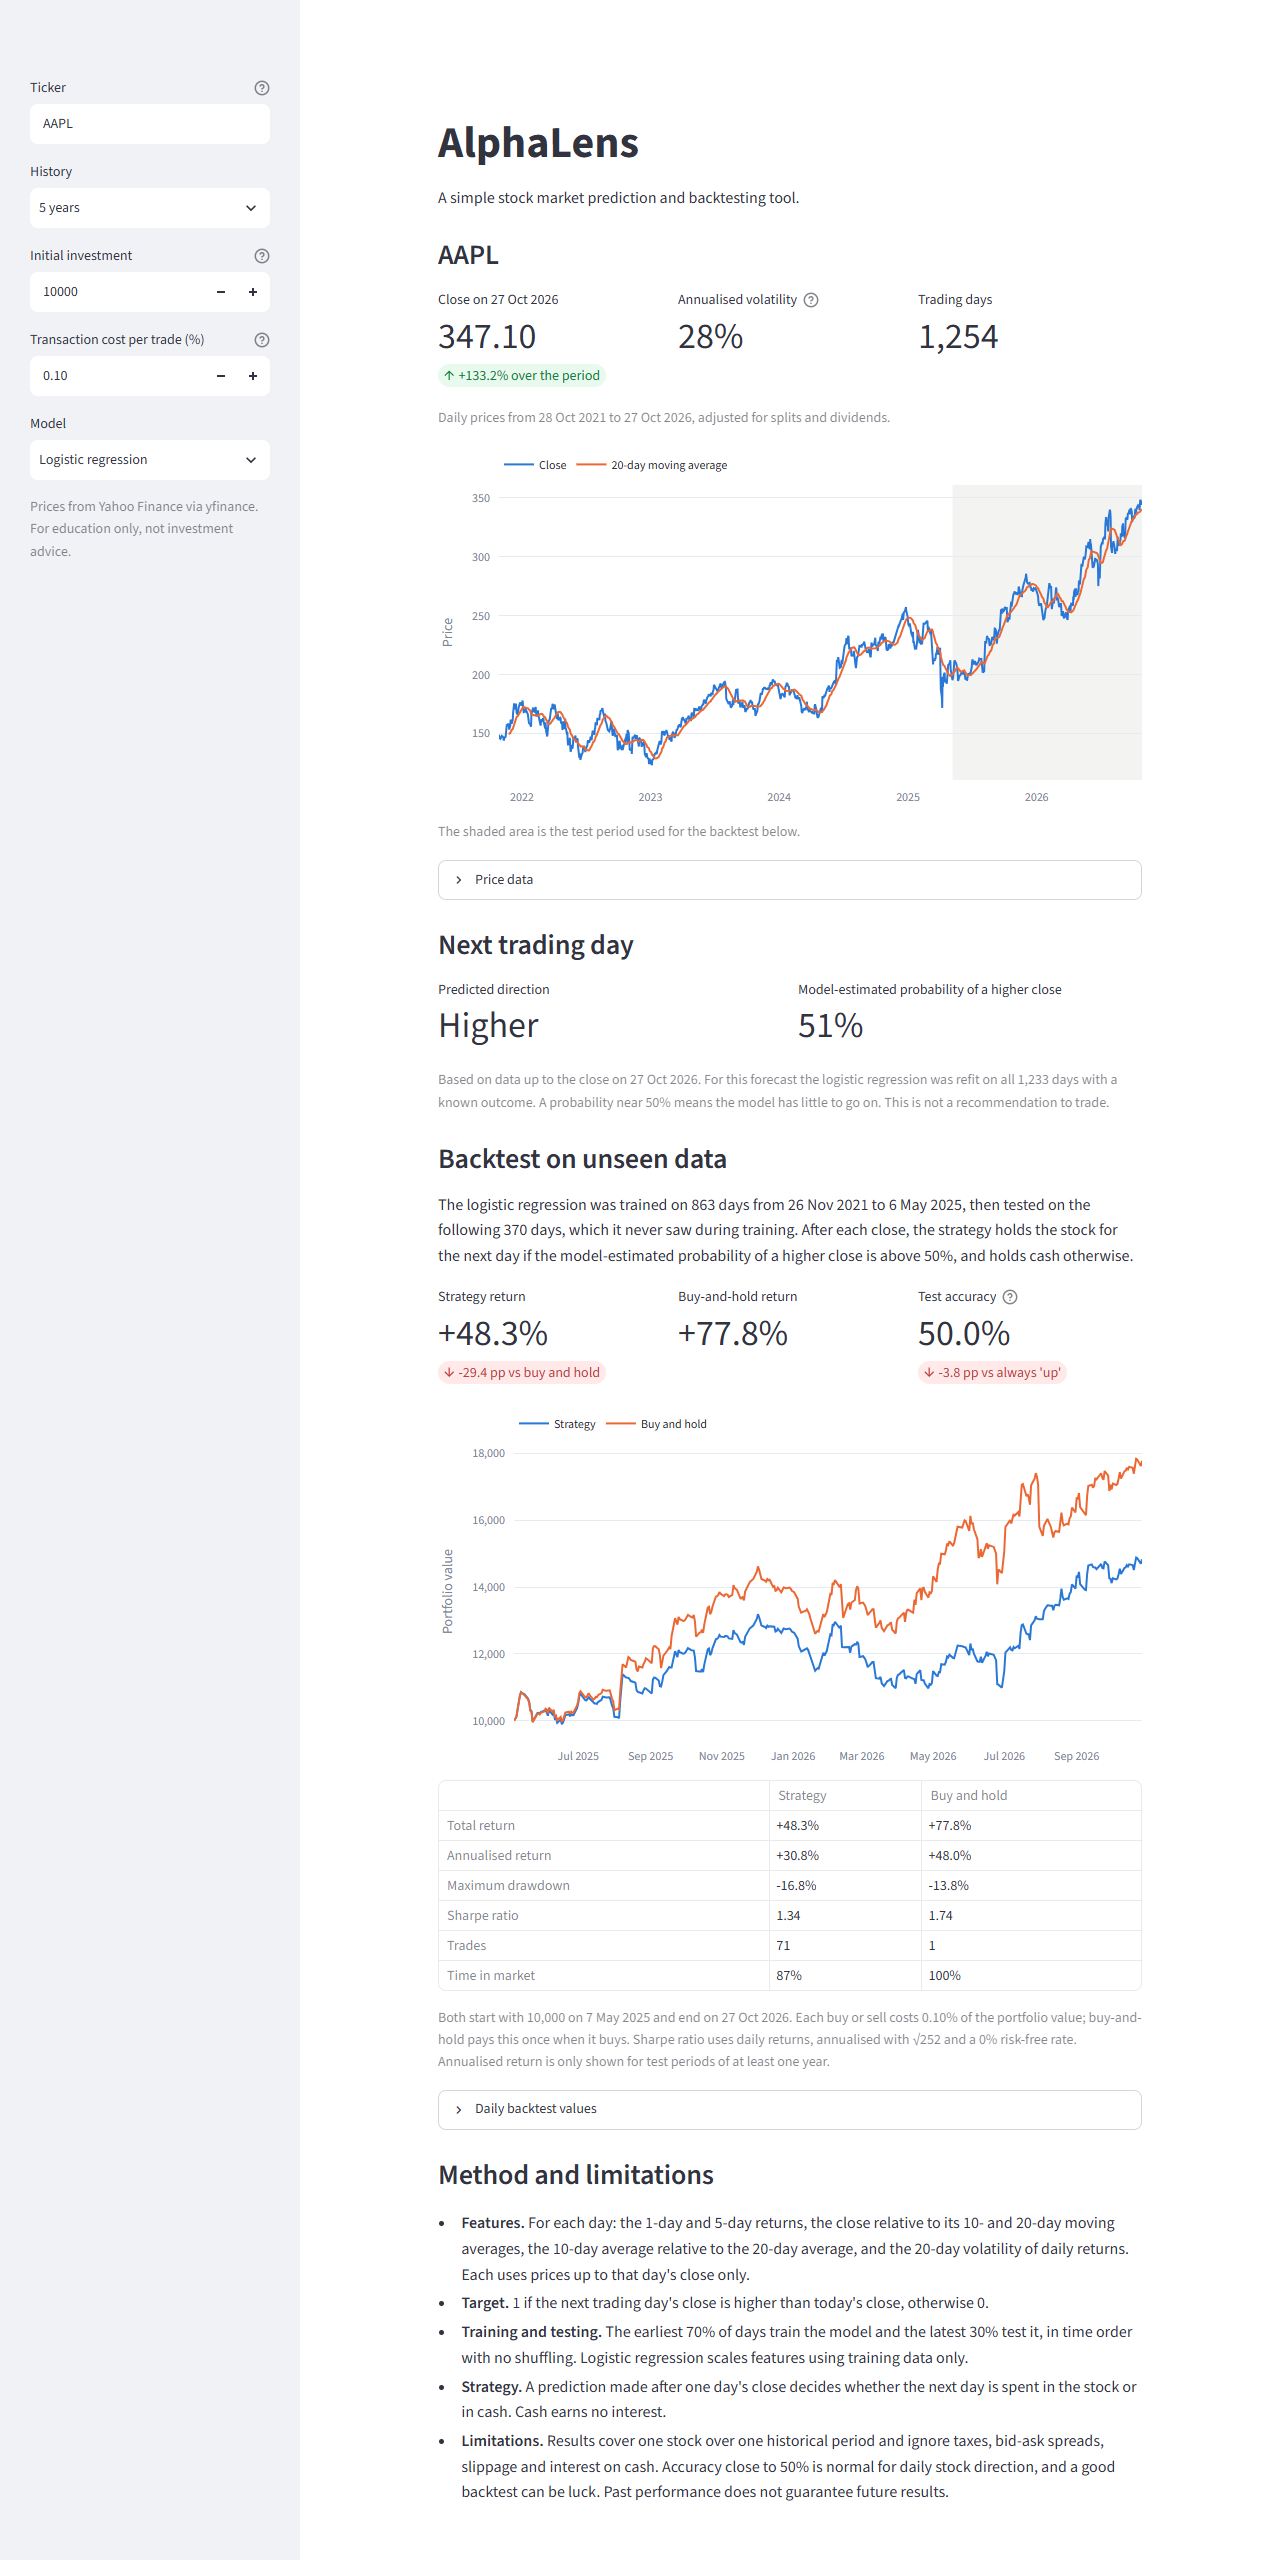
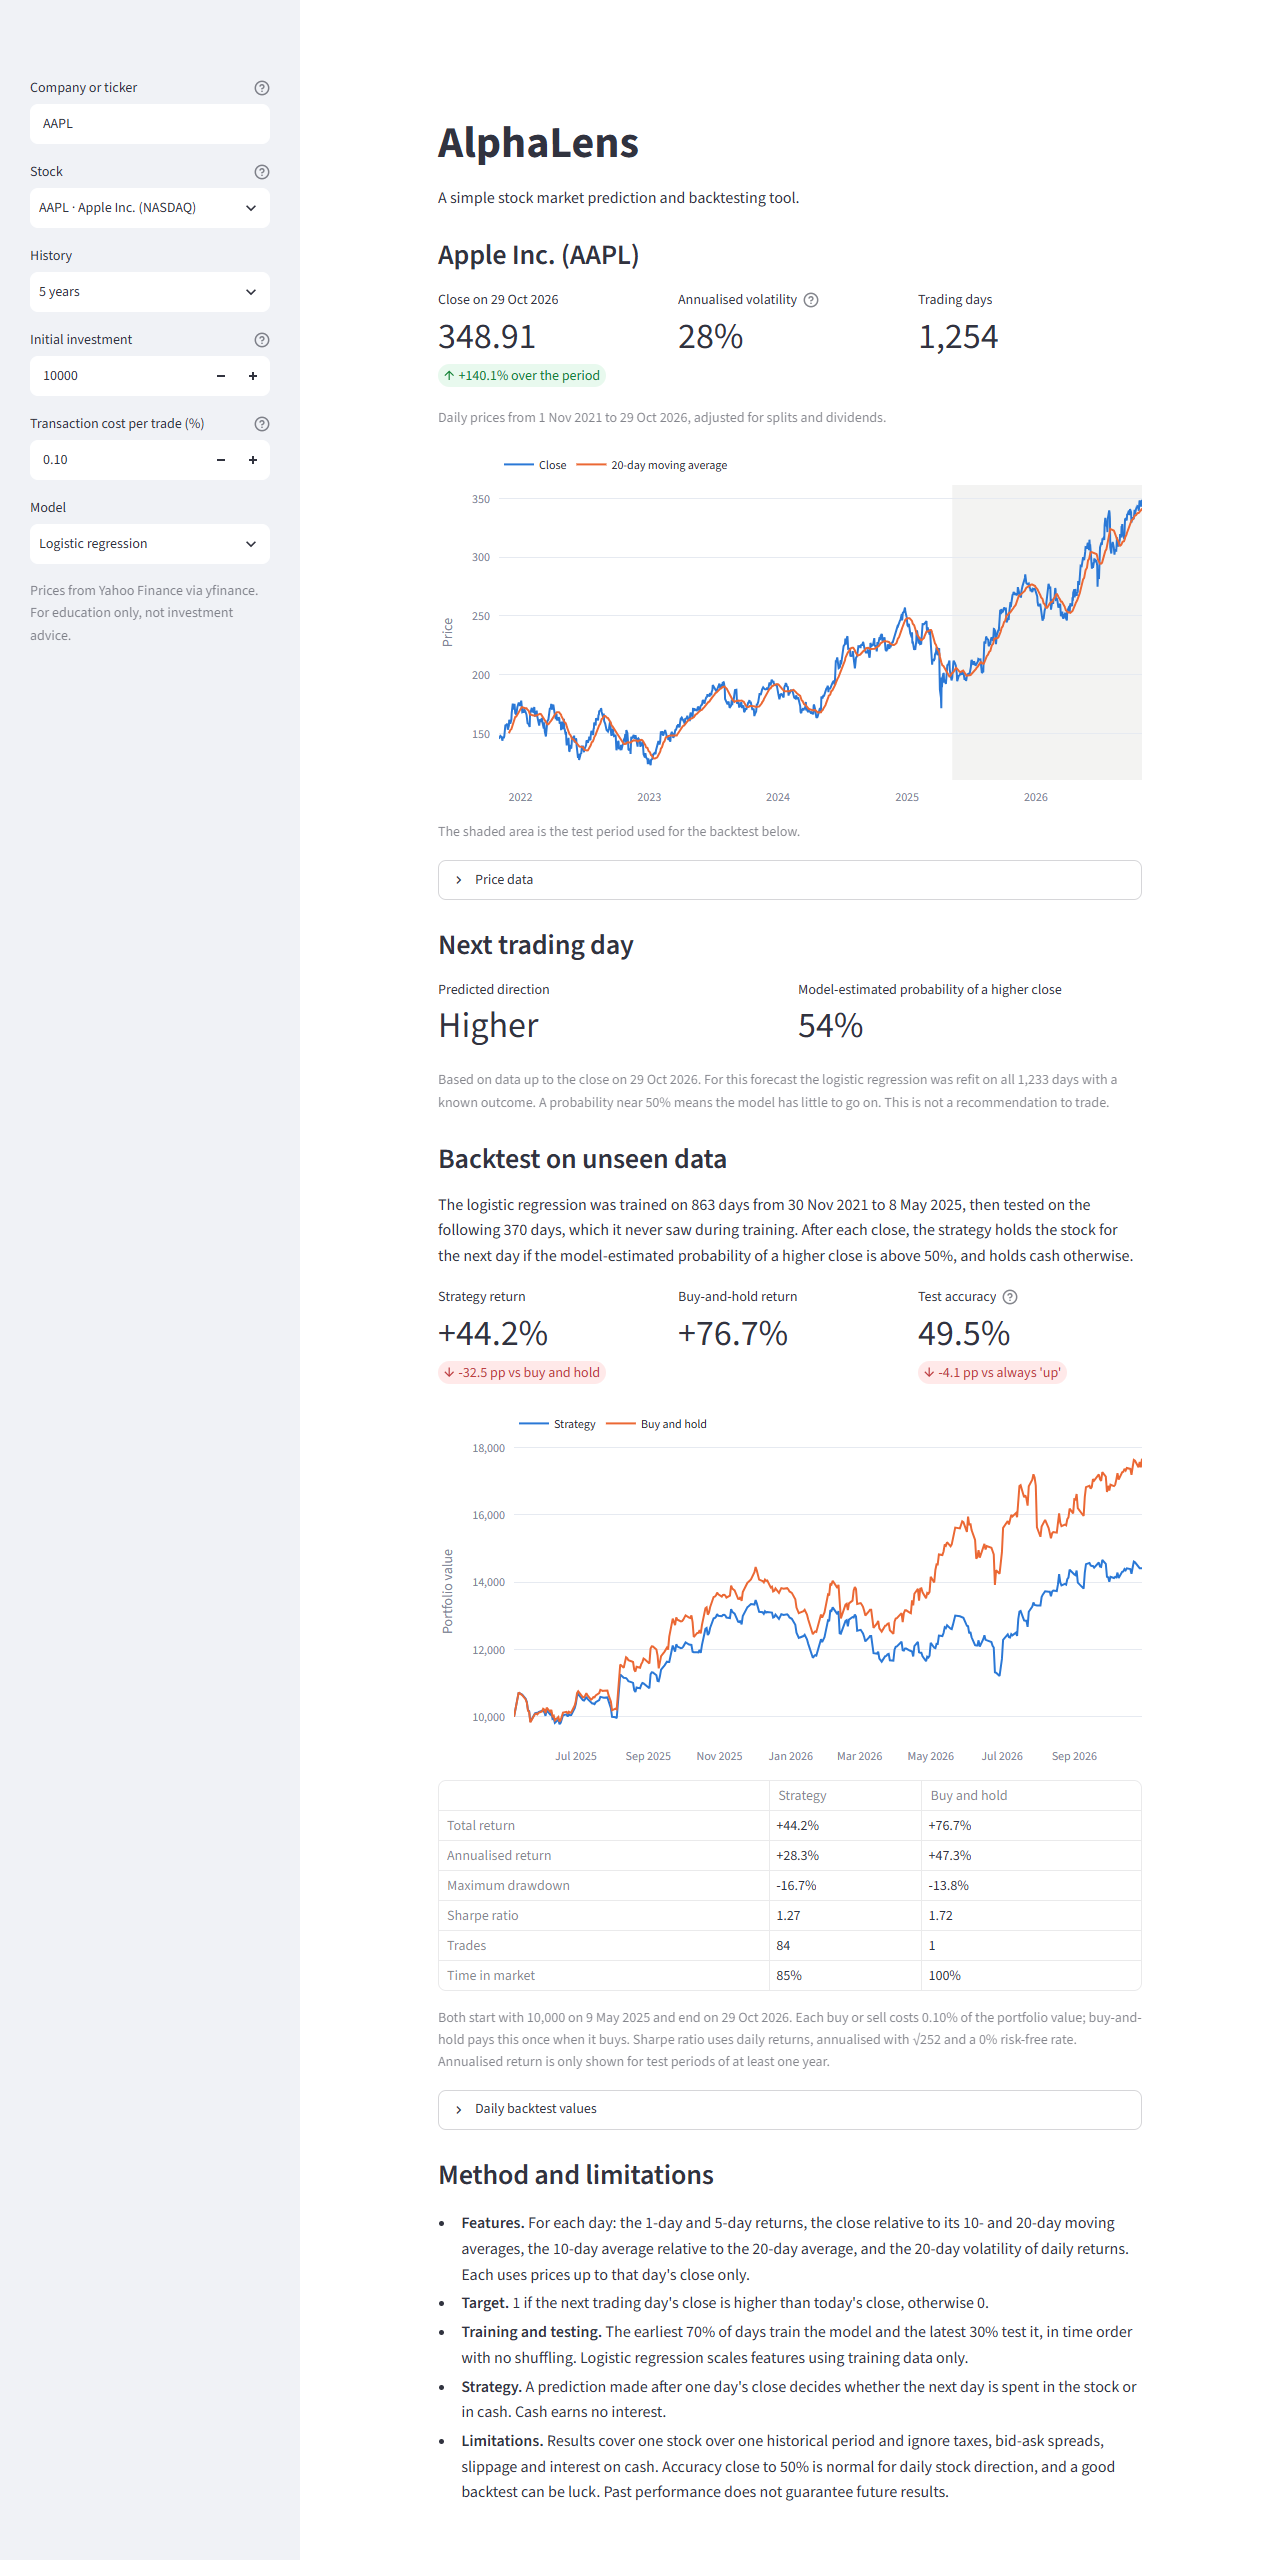
feat: search by company name or ticker and show company name
The sidebar search box accepts a company name or a ticker symbol and lists matching stocks, ETFs and indices from Yahoo Finance, with an exact ticker match first. The page heading shows the company name next to the ticker. README and screenshot updated.

diff --git a/app.py b/app.py
@@ -6,19 +6,26 @@ live in data.py, features.py, model.py and backtest.py.
 
 from __future__ import annotations
 
+from typing import NoReturn
+
 import numpy as np
 import pandas as pd
 import plotly.graph_objects as go
 import streamlit as st
 
 from backtest import TRADING_DAYS_PER_YEAR, performance_metrics, run_backtest
-from data import PERIODS, DataError, download_prices, normalise_ticker
+from data import PERIODS, DataError, Listing, download_prices, search_listings
 from features import add_indicators, build_dataset
 from model import MODEL_NAMES, Evaluation, Forecast, InsufficientDataError, evaluate_model, forecast_next_day
 
 PRIMARY_COLOUR = "#2a78d6"  # close price, strategy
 SECONDARY_COLOUR = "#eb6834"  # moving average, buy-and-hold
 SHADE_COLOUR = "#898781"
+
+
+@st.cache_data(ttl=86400, show_spinner=False)
+def load_listings(query: str) -> list[Listing]:
+    return search_listings(query)
 
 
 @st.cache_data(ttl=3600, show_spinner=False)
@@ -29,6 +36,16 @@ def load_prices(symbol: str, period: str) -> pd.DataFrame:
 @st.cache_data(show_spinner=False)
 def load_model_results(dataset: pd.DataFrame, model_name: str) -> tuple[Evaluation, Forecast]:
     return evaluate_model(dataset, model_name), forecast_next_day(dataset, model_name)
+
+
+def stop_with_error(message: str) -> NoReturn:
+    st.error(message)
+    st.write(
+        "Check the company name or ticker in the sidebar and try again. If it is correct, Yahoo Finance may be "
+        "temporarily unavailable or limiting requests, so wait a minute before retrying."
+    )
+    st.button("Try again")
+    st.stop()
 
 
 def date_text(timestamp: pd.Timestamp) -> str:
@@ -81,7 +98,24 @@ def format_metrics(metrics: dict) -> dict[str, str]:
 st.set_page_config(page_title="AlphaLens", layout="centered")
 
 with st.sidebar:
-    ticker = st.text_input("Ticker", value="AAPL", help="A Yahoo Finance symbol, for example AAPL, MSFT or NVDA.")
+    query = st.text_input(
+        "Company or ticker",
+        value="AAPL",
+        help="Search Yahoo Finance by company name (for example Apple) or ticker symbol (for example AAPL), "
+        "then press Enter.",
+    )
+    search_error = None
+    try:
+        listings = load_listings(query.strip())
+    except DataError as exc:
+        listings, search_error = [], str(exc)
+    listing = st.selectbox(
+        "Stock",
+        listings,
+        format_func=Listing.label,
+        disabled=not listings,
+        help="Matching stocks, ETFs and indices. An exact ticker match is listed first.",
+    )
     period_label = st.selectbox("History", list(PERIODS), index=2)
     initial_capital = st.number_input(
         "Initial investment",
@@ -106,18 +140,16 @@ with st.sidebar:
 st.title("AlphaLens")
 st.write("A simple stock market prediction and backtesting tool.")
 
+if listing is None:
+    stop_with_error(search_error)
+
+symbol = listing.symbol
+display_name = f"{listing.name} ({symbol})"
 try:
-    symbol = normalise_ticker(ticker)
-    with st.spinner(f"Downloading daily prices for {symbol}..."):
+    with st.spinner(f"Downloading daily prices for {display_name}..."):
         prices = load_prices(symbol, PERIODS[period_label])
 except DataError as exc:
-    st.error(str(exc))
-    st.write(
-        "Check the ticker in the sidebar and try again. If the symbol is correct, Yahoo Finance may be "
-        "temporarily unavailable or limiting requests, so wait a minute before retrying."
-    )
-    st.button("Try again")
-    st.stop()
+    stop_with_error(str(exc))
 
 dataset = build_dataset(prices)
 evaluation, forecast, model_error = None, None, None
@@ -132,7 +164,7 @@ indicators = add_indicators(prices)
 close = prices["Close"]
 last_date = prices.index[-1]
 
-st.subheader(symbol)
+st.subheader(display_name)
 col1, col2, col3 = st.columns(3)
 col1.metric(
     f"Close on {date_text(last_date)}",

diff --git a/data.py b/data.py
@@ -3,6 +3,7 @@
 from __future__ import annotations
 
 import re
+from dataclasses import dataclass
 
 import pandas as pd
 import yfinance as yf
@@ -10,6 +11,8 @@ import yfinance as yf
 # Sidebar label -> yfinance period string
 PERIODS = {"1 year": "1y", "2 years": "2y", "5 years": "5y", "10 years": "10y"}
 PRICE_COLUMNS = ["Open", "High", "Low", "Close", "Volume"]
+# Yahoo search result types that have ordinary daily prices (no futures, options or currencies)
+SEARCH_TYPES = {"EQUITY", "ETF", "INDEX", "MUTUALFUND"}
 
 # Letters, digits and the separators Yahoo uses, e.g. AAPL, BRK-B, RDSA.AS, ^GSPC
 _TICKER_PATTERN = re.compile(r"^\^?[A-Z0-9][A-Z0-9.\-=]{0,14}$")
@@ -29,6 +32,53 @@ def normalise_ticker(ticker: str) -> str:
     if not _TICKER_PATTERN.match(symbol):
         raise DataError(f"'{ticker}' is not a valid ticker symbol. Enter a symbol such as AAPL, MSFT or NVDA.")
     return symbol
+
+
+@dataclass(frozen=True)
+class Listing:
+    """A security found by search: its Yahoo symbol, company name and exchange."""
+
+    symbol: str
+    name: str
+    exchange: str
+
+    def label(self) -> str:
+        return f"{self.symbol} · {self.name} ({self.exchange})"
+
+
+def search_listings(query: str, max_results: int = 10) -> list[Listing]:
+    """Find listings whose company name or ticker matches the query, exact symbol match first.
+
+    Raises DataError if the query is empty, the search fails or nothing matches.
+    """
+    query = query.strip()
+    if not query:
+        raise DataError("Enter a company name or ticker symbol, for example Apple or AAPL.")
+    try:
+        quotes = yf.Search(
+            query, max_results=max_results, news_count=0, lists_count=0, include_cb=False, recommended=0
+        ).quotes
+    except Exception as exc:
+        detail = str(exc).strip().rstrip(":") or type(exc).__name__
+        raise DataError(f"Could not search Yahoo Finance for '{query}' ({detail}).") from exc
+
+    listings = [
+        Listing(
+            symbol=quote["symbol"],
+            name=quote.get("longname") or quote.get("shortname") or quote["symbol"],
+            exchange=quote.get("exchDisp") or quote.get("exchange") or "unknown exchange",
+        )
+        for quote in quotes
+        if quote.get("quoteType") in SEARCH_TYPES and _TICKER_PATTERN.match(quote["symbol"])
+    ]
+    if not listings:
+        raise DataError(
+            f"No stocks, ETFs or indices on Yahoo Finance match '{query}'. "
+            "Try the company's full name or its ticker symbol."
+        )
+    # Stable sort: a listing whose symbol is exactly what was typed comes first, the rest keep Yahoo's order.
+    listings.sort(key=lambda listing: listing.symbol != query.upper())
+    return listings
 
 
 def download_prices(ticker: str, period: str = "5y") -> pd.DataFrame:

diff --git a/tests/test_data.py b/tests/test_data.py
@@ -3,7 +3,15 @@ import pandas as pd
 import pytest
 
 import data
-from data import DataError, clean_prices, download_prices, drop_unfinished_session, normalise_ticker
+from data import (
+    DataError,
+    Listing,
+    clean_prices,
+    download_prices,
+    drop_unfinished_session,
+    normalise_ticker,
+    search_listings,
+)
 
 
 @pytest.mark.parametrize(
@@ -105,3 +113,57 @@ def test_download_prices_reports_empty_results(monkeypatch):
     monkeypatch.setattr(data.yf, "Ticker", _EmptyTicker)
     with pytest.raises(DataError, match="no prices"):
         download_prices("AAPL")
+
+
+def _fake_search(quotes):
+    class _Search:
+        def __init__(self, query, **kwargs):
+            self.quotes = quotes
+
+    return _Search
+
+
+_SEARCH_QUOTES = [
+    {"symbol": "AAPU", "quoteType": "ETF", "longname": "Direxion Daily AAPL Bull 2X Shares", "exchDisp": "NASDAQ"},
+    {"symbol": "SAAPL=F", "quoteType": "FUTURE", "shortname": "Apple Inc Stock Futures", "exchDisp": "CME"},
+    {"symbol": "AAPL", "quoteType": "EQUITY", "longname": "Apple Inc.", "shortname": "Apple", "exchDisp": "NASDAQ"},
+    {"symbol": "AAPL.TO", "quoteType": "EQUITY", "shortname": "APPLE CDR", "exchange": "TOR"},
+]
+
+
+def test_search_listings_keeps_priced_securities_and_puts_exact_symbol_first(monkeypatch):
+    monkeypatch.setattr(data.yf, "Search", _fake_search(_SEARCH_QUOTES))
+
+    listings = search_listings(" aapl ")
+
+    assert listings == [
+        Listing("AAPL", "Apple Inc.", "NASDAQ"),
+        Listing("AAPU", "Direxion Daily AAPL Bull 2X Shares", "NASDAQ"),
+        Listing("AAPL.TO", "APPLE CDR", "TOR"),
+    ]
+    assert listings[0].label() == "AAPL · Apple Inc. (NASDAQ)"
+
+
+def test_search_listings_by_company_name_keeps_yahoo_order(monkeypatch):
+    monkeypatch.setattr(data.yf, "Search", _fake_search(_SEARCH_QUOTES))
+    assert [listing.symbol for listing in search_listings("Apple")] == ["AAPU", "AAPL", "AAPL.TO"]
+
+
+def test_search_listings_rejects_empty_query():
+    with pytest.raises(DataError, match="Enter a company name"):
+        search_listings("   ")
+
+
+def test_search_listings_reports_no_matches(monkeypatch):
+    monkeypatch.setattr(data.yf, "Search", _fake_search([{"symbol": "X=F", "quoteType": "FUTURE"}]))
+    with pytest.raises(DataError, match="No stocks"):
+        search_listings("zzzz")
+
+
+def test_search_listings_reports_provider_failures(monkeypatch):
+    def _failing_search(query, **kwargs):
+        raise ConnectionError("network unreachable")
+
+    monkeypatch.setattr(data.yf, "Search", _failing_search)
+    with pytest.raises(DataError, match="network unreachable"):
+        search_listings("Apple")

diff --git a/README.md b/README.md
@@ -6,24 +6,26 @@ AlphaLens downloads daily prices for a stock and trains a small machine learning
 
 ![AlphaLens dashboard](docs/screenshot.png)
 
-*The running app for AAPL with five years of history and logistic regression, captured on 27 October 2026.*
+*The running app for AAPL with five years of history and logistic regression, captured on 29 October 2026.*
 
 ## The question
 
 **Can a simple machine learning model generate a trading strategy that outperforms buying and holding a stock after accounting for transaction costs?**
 
-AlphaLens lets you test this for any ticker on Yahoo Finance. In the run shown above, the answer was no. The strategy returned +48.3% against +77.8% for buy-and-hold over the same 370-day test period. The model's test accuracy (50.0%) was below that of always predicting "up".
+AlphaLens lets you test this for any ticker on Yahoo Finance. In the run shown above, the answer was no. The strategy returned +44.2% against +76.7% for buy-and-hold over the same 370-day test period. The model's test accuracy (49.5%) was below that of always predicting "up".
 
 ## Features
 
-- Daily prices for any Yahoo Finance ticker (default AAPL), with 1, 2, 5 or 10 years of history
+- Search by company name (for example Apple) or ticker symbol (for example AAPL), then pick from the matching stocks, ETFs and indices
+- The company name is shown next to the ticker, for example "Apple Inc. (AAPL)"
+- Daily prices for any Yahoo Finance listing (default AAPL), with 1, 2, 5 or 10 years of history
 - Indicators: daily returns, 10- and 20-day moving averages, 20-day rolling volatility
 - Two models: logistic regression and random forest
 - Chronological train/test split, with accuracy reported only on unseen data and compared with a naive baseline
 - Backtest with configurable starting capital and transaction costs, compared with buy-and-hold
 - Metrics: total and annualised return, maximum drawdown, Sharpe ratio, number of trades, time in market
 - Next-trading-day prediction with a model-estimated probability
-- Clear messages for invalid tickers, failed downloads and short histories
+- Clear messages for searches with no matches, failed downloads and short histories
 
 ## Tech stack
 
@@ -33,7 +35,7 @@ Python · Streamlit · yfinance · pandas · NumPy · scikit-learn · Plotly · 
 
 ```text
 app.py        Streamlit interface; calls the modules below
-data.py       downloads and cleans daily prices (yfinance)
+data.py       searches listings and downloads and cleans daily prices (yfinance)
 features.py   indicators, model features and the next-day target
 model.py      chronological split, training, evaluation and next-day forecast
 backtest.py   strategy simulation, transaction costs and performance metrics
@@ -85,6 +87,7 @@ The tests use synthetic price series and need no internet connection. They check
 - the chronological split, and that test-period outcomes cannot influence training
 - signal timing in the backtest and how transaction costs are charged
 - the performance metrics, on series with known answers
+- filtering and ordering of search results
 - handling of invalid, missing and insufficient data
 
 GitHub Actions runs the suite on Python 3.12 and 3.13 for every push and pull request.
